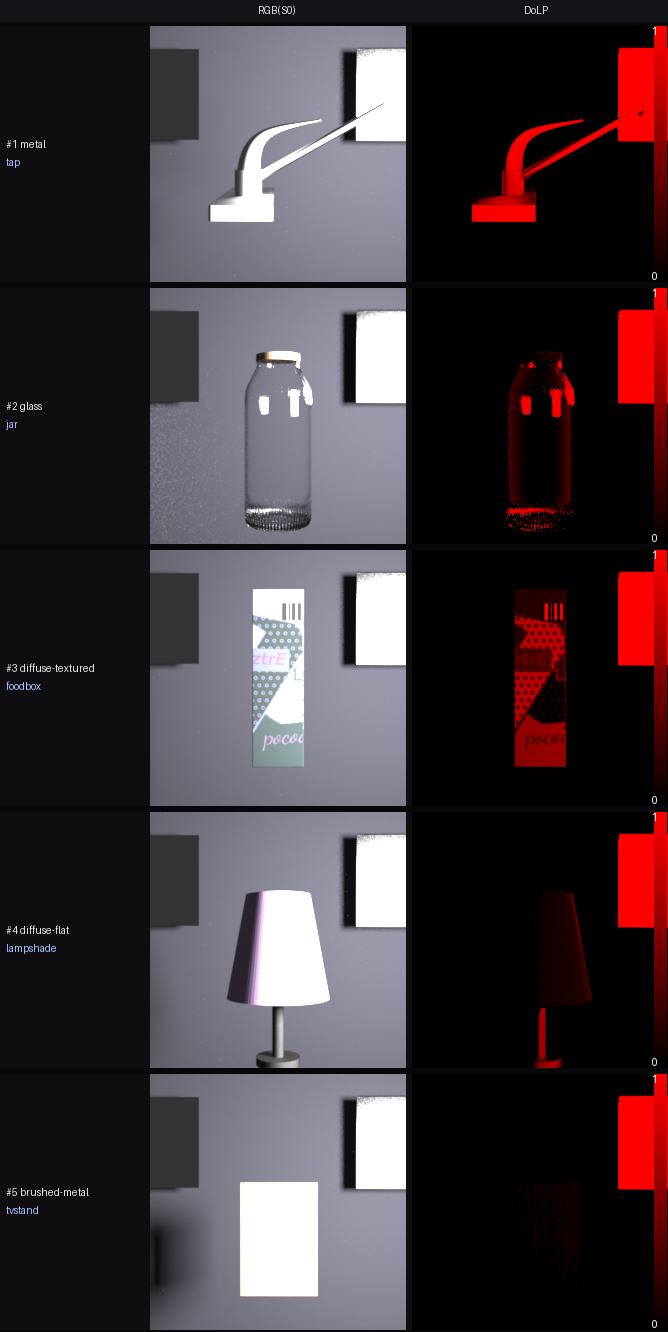
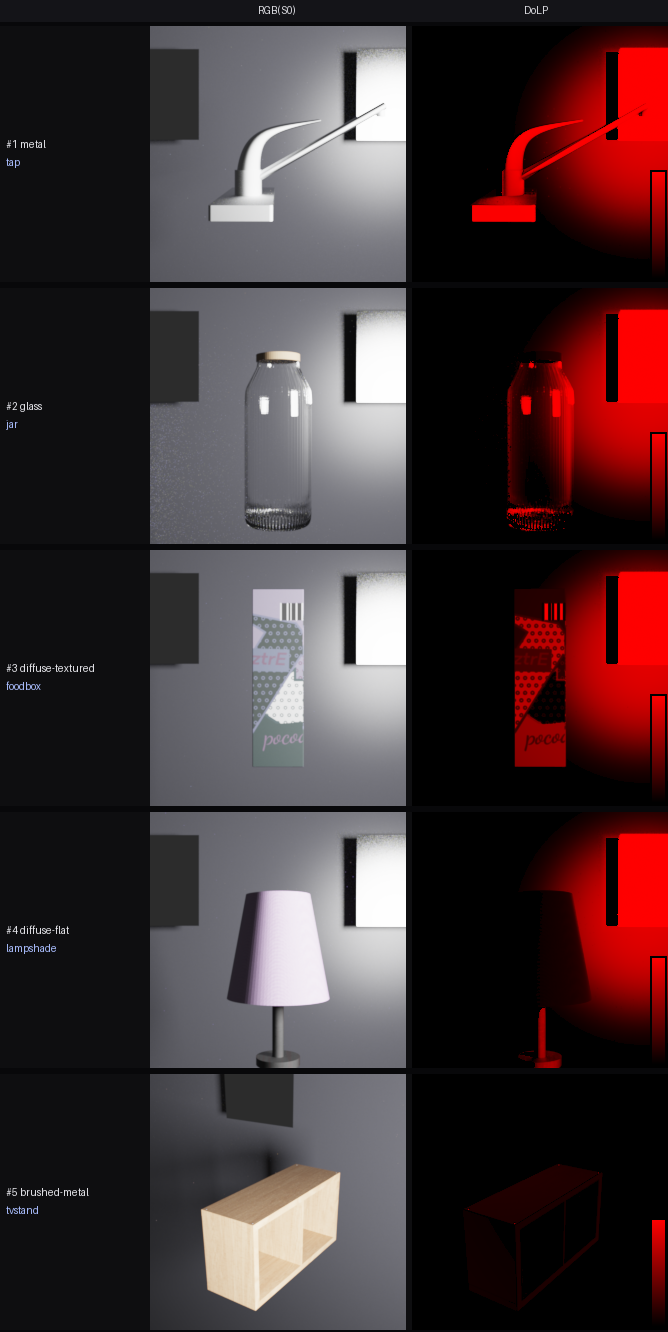
dev_report(0706): s3 panel, ungated s1/s2/s3, soft tonemap+EXR, bottom colorbars
- Add s3/s0 panel (circular pol; ~0 = white here, linear-only optics).
- s1/s2/s3 shown ungated (full-frame BwR, unpolarized=white) instead of
  DoLP-masked black; DoLP/AoLP keep the polarization mask.
- Soft Reinhard tonemap so pplastic/wood highlights no longer blow out to
  white; also write per-frame EXR of S0 (HDR).
- Colorbars moved to each panel's bottom-right (separated from the top
  witness patch -> no apparent "moving colorbar"; verified colorbar column
  is pixel-identical across frames).
- Glossy (pplastic) backdrop so the wall shows a polarized reflection the
  analyzer/Stokes reveals (addresses "wall reflection too weak").
- tvstand rendered from a 3/4 elevated angle to expose 3D structure.
- Verified: material->geometry assignment is correct (color-code diagnostic:
  visible panel is wood/pplastic, not metal); raw render has 0 NaN/Inf.

diff --git a/dev_report/report_2026-07-06_optical_class_polarization.html b/dev_report/report_2026-07-06_optical_class_polarization.html
@@ -63,7 +63,7 @@
 <li><b>입사각 궤도(orbit)</b>: flash를 오브젝트 주위로 이동(azimuth 20°→85°) → 국소 입사각이 grazing으로. 유리·plastic은 Brewster 부근서 DoLP 상승.</li>
 <li><b>polarizer 회전(polrot)</b>: flash 고정, 조명 polarizer θ 0→180° 회전 → specular 반사의 AoLP가 각도 추종.</li>
 </ul>
-<p>5패널 = RGB(S0) · DoLP · AoLP · s1/s0 · s2/s0. specular 마스크(S0&gt;0.04 &amp; DoLP&gt;0.05). spp8000(유리 12000). 광원은 <code>polarized_area</code>.</p>
+<p>6패널 = RGB(S0) · DoLP · AoLP · s1/s0 · s2/s0 · s3/s0. <b>DoLP·AoLP</b>는 편광 마스크(S0&gt;0.04 &amp; DoLP&gt;0.05)로 편광 영역만; <b>s1/s2/s3</b>는 마스크 없이 <b>전영역 BwR</b>(unpolarized=흰색, 부호장 그대로). s3는 원편광이라 선형광학만 있는 이 씬에선 ≈0(흰색). <b>soft Reinhard 톤매핑</b>으로 하이라이트가 안 날아가고 <b>EXR(S0)</b>도 동시 출력. 각 편광 패널 우하단 <b>컬러바</b>. 배경 벽은 glossy(<code>pplastic</code>)라 편광 반사가 보인다(analyzer/벽 witness 강화). 광원 <code>polarized_area</code>, spp8000(유리 12000).</p>
 
 <h3>#1 metal — 수도꼭지</h3>
 <figure><img src="images/0706_optclass_tap_orbit.gif" alt="tap orbit"><figcaption>입사각 궤도. 금속 전면이 조명 편광을 보존해 DoLP≈0.9로 강하게 켜진다.</figcaption></figure>
